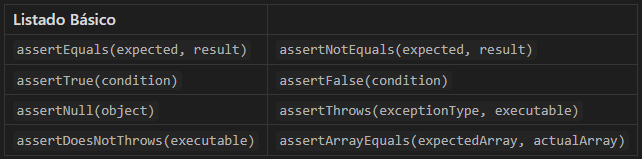
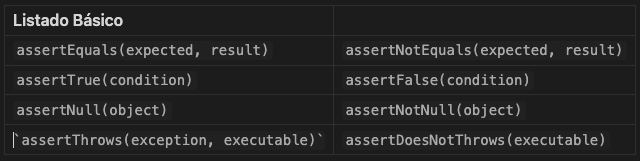
S03E02 - Revision

diff --git a/slides/slides-s03e02-junit-hamcrest.html b/slides/slides-s03e02-junit-hamcrest.html
@@ -178,7 +178,11 @@
 
 # Organización
 
+
+
 ## Anotaciones
+
+<!-- .slide: data-background-image="Adjuntos/slides.eap.png" -->
 </div></script></section><section  data-markdown><script type="text/template"><!-- .slide: class="drop" data-background-image="Adjuntos/slides.eap.png" -->
 <div class="" style="position: absolute; left: 0px; top: 0px; height: 700px; width: 960px; min-height: 700px; display: flex; flex-direction: column; align-items: center; justify-content: center" absolute="true">
 
@@ -192,10 +196,10 @@ public class MiClaseTest {
     @Test
     public void testSuma() {
         // Arrange
-        MiClase miClase = new MiClase();
+        MathUtils mathUtils = new MathUtils();
 
         // Act
-        int resultado = miClase.suma(2, 3);
+        int resultado = mathUtils.suma(2, 3);
 
         // Assert
         assertEquals(5, resultado);
@@ -212,20 +216,20 @@ public class MiClaseTest {
 <!-- .slide: data-background-image="Adjuntos/slides.eap.png" --></aside></script></section><section  data-markdown><script type="text/template"><!-- .slide: class="drop" data-background-image="Adjuntos/slides.eap.png" -->
 <div class="" style="position: absolute; left: 0px; top: 0px; height: 700px; width: 960px; min-height: 700px; display: flex; flex-direction: column; align-items: center; justify-content: center" absolute="true">
 
-```java [5-9]
+```java [3|5-9|11-15]
 public class MiClaseTest {
 
-	MiClase miClase;
+	MathUtils mathUtils;
 
 	@BeforeEach
     public void setUp() {
-        miClase = new MiClase();
-        System.out.println("Configuración inicial antes de cada prueba");
+        // Configuración inicial antes de cada prueba
+        mathUtils = new MathUtils();
     }
 
     @Test
     public void testSuma() {
-        int resultado = miClase.suma(2, 3);
+        int resultado = mathUtils.suma(2, 3);
 		assertEquals(5, resultado);
     }
 }
@@ -243,18 +247,18 @@ public class MiClaseTest {
 ```java [11-15]
 public class MiClaseTest {
 
-	MiClase miClase;
+	MathUtils mathUtils;
 
 	@BeforeEach
     public void setUp() {
-        miClase = new MiClase();
-        System.out.println("Configuración inicial antes de cada prueba");
+	    // Configuración inicial antes de cada prueba
+        mathUtils = new MathUtils();
     }
 
 	@AfterEach
     public void tearDown() {
-        miClase = new MiClase();
-        System.out.println("Limpieza después de cada prueba");
+        // Limpieza después de cada prueba
+        mathUtils = null;
     }
 
     @Test
@@ -277,31 +281,29 @@ public class MiClaseTest {
 ```java [5-8]
 public class MiClaseTest {
 
-	MiClase miClase;
+	MathUtils mathUtils;
 
 	@BeforeAll
 	public static void setUpAll(){
-		System.out.println("Configuración inicial de la clase");
+		// Configuración inicial de la clase
 	}
 
 	@BeforeEach
     public void setUp() {
-        miClase = new MiClase();
-        System.out.println("Configuración inicial antes de cada prueba");
+	    // Configuración inicial antes de cada prueba
+        mathUtils = new MathUtils();
+    }
+
+	@AfterEach
+    public void tearDown() {
+        // Limpieza después de cada prueba
+        mathUtils = null;
     }
 
 	@Test
     public void testSuma() {
         int resultado = miClase.suma(2, 3);
 		assertEquals(5, resultado);
-    }
-
-	// Aquí irían mas tests
-
-	@AfterEach
-    public void tearDown() {
-        miClase = new MiClase();
-        System.out.println("Limpieza después de cada prueba");
     }
 
 }
@@ -313,41 +315,38 @@ public class MiClaseTest {
 </div></script></section><section  data-markdown><script type="text/template"><!-- .slide: class="drop" data-background-image="Adjuntos/slides.eap.png" -->
 <div class="" style="position: absolute; left: 0px; top: 0px; height: 700px; width: 960px; min-height: 700px; display: flex; flex-direction: column; align-items: center; justify-content: center" absolute="true">
 
-```java [30-33]
+```java [10-13]
 public class MiClaseTest {
 
-	MiClase miClase;
+	MathUtils mathUtils;
 
 	@BeforeAll
 	public static void setUpAll(){
-		System.out.println("Configuración inicial de la clase");
+		// Configuración inicial de la clase
+	}
+
+	@AfterAll
+	public static void tearDownAll(){
+		// Limpieza después de todas las pruebas
 	}
 
 	@BeforeEach
     public void setUp() {
-        miClase = new MiClase();
-        System.out.println("Configuración inicial antes de cada prueba");
+	    // Configuración inicial antes de cada prueba
+        mathUtils = new MathUtils();
+    }
+
+	@AfterEach
+    public void tearDown() {
+        // Limpieza después de cada prueba
+        mathUtils = null;
     }
 
 	@Test
     public void testSuma() {
-        int resultado = miClase.suma(2, 3);
+        int resultado = mathUtils.suma(2, 3);
 		assertEquals(5, resultado);
     }
-
-	// Aquí irían mas tests
-
-	@AfterEach
-    public void tearDown() {
-        miClase = new MiClase();
-        System.out.println("Limpieza después de cada prueba");
-    }
-
-	@AfterAll
-	public static void tearDownAll(){
-		System.out.println("Limpieza después de todas las pruebas");
-	}
-
 }
 ```
 </div></script></section><section  data-markdown><script type="text/template"><!-- .slide: class="drop" data-background-image="Adjuntos/slides.eap.png" -->
@@ -424,28 +423,6 @@ public class MiClaseTest {
 # assertArrayEquals
 
 ### `assertArrayEquals(expectedArray, actualArray)`
-</div></script></section><section  data-markdown><script type="text/template"><!-- .slide: class="drop" data-background-image="Adjuntos/slides.eap.png" -->
-<div class="" style="position: absolute; left: 0px; top: 0px; height: 700px; width: 960px; min-height: 700px; display: flex; flex-direction: column; align-items: center; justify-content: center" absolute="true">
-
-```java
-public class CalculadoraTest {
-
-    @Test
-    public void testSuma() {
-        Calculadora calc = new Calculadora();
-        int resultado = calc.suma(2, 3);
-        assertEquals(5, resultado, "La suma de 2 y 3 debe ser 5");
-    }
-
-    @Test
-    public void testDivision() {
-        Calculadora calc = new Calculadora();
-        assertThrows(ArithmeticException.class, () -> {
-            calc.division(5, 0);
-        });
-    }
-}
-```
 </div></script></section><section  data-markdown><script type="text/template"><!-- .slide: class="drop" -->
 <div class="" style="position: absolute; left: 0px; top: 0px; height: 700px; width: 960px; min-height: 700px; display: flex; flex-direction: column; align-items: center; justify-content: center" absolute="true">
 
@@ -469,11 +446,15 @@ public class CalculadoraTest {
 </tr>
 <tr>
 <td><code>assertNull(object)</code></td>
-<td><code>assertThrows(exceptionType, executable)</code></td>
+<td><code>assertNotNull(object)</code></td>
 </tr>
 <tr>
+<td><code>assertThrows(exception, executable)</code></td>
 <td><code>assertDoesNotThrows(executable)</code></td>
-<td><code>assertArrayEquals(expectedArray, actualArray)</code></td>
+</tr>
+<tr>
+<td><a href="https://junit.org/junit5/docs/5.0.1/api/org/junit/jupiter/api/Assertions.html">https://junit.org/junit5/docs/5.0.1/api/org/junit/jupiter/api/Assertions.html</a></td>
+<td></td>
 </tr>
 </tbody></table>
 <p>es posible que veais listados infinitos de assert, pero en muchos casos vais a usar menos del 10%. Es importante saber que existen muchos porque ante un test que parece complicarse quizás haya un assert que está pensado para ese caso</p>
@@ -481,51 +462,37 @@ public class CalculadoraTest {
 <div class="" style="position: absolute; left: 0px; top: 0px; height: 700px; width: 960px; min-height: 700px; display: flex; flex-direction: column; align-items: center; justify-content: center" absolute="true">
 
 # Organización
+</div></script></section><section  data-markdown><script type="text/template"><!-- .slide: class="drop" data-background-image="Adjuntos/slides.eap.png" -->
+<div class="" style="position: absolute; left: 0px; top: 0px; height: 700px; width: 960px; min-height: 700px; display: flex; flex-direction: column; align-items: center; justify-content: center" absolute="true">
 
 ## Suites
 </div></script></section><section  data-markdown><script type="text/template"><!-- .slide: class="drop" data-background-image="Adjuntos/slides.eap.png" -->
 <div class="" style="position: absolute; left: 0px; top: 0px; height: 700px; width: 960px; min-height: 700px; display: flex; flex-direction: column; align-items: center; justify-content: center" absolute="true">
 
-# @Tag
-</div></script></section><section  data-markdown><script type="text/template"><!-- .slide: class="drop" data-background-image="Adjuntos/slides.eap.png" -->
-<div class="" style="position: absolute; left: 0px; top: 0px; height: 700px; width: 960px; min-height: 700px; display: flex; flex-direction: column; align-items: center; justify-content: center" absolute="true">
+`pom.xml`
 
-```java
-@DisplayName("Suite de Pruebas de Integración")
-@Tag("integracion")
-public class SuitePruebasIntegracion {
-
-    @Test
-    @DisplayName("Prueba de Integración 1")
-    void pruebaIntegracion1() {
-        // Implementación de la prueba de integración 1
-    }
-
-    @Test
-    @DisplayName("Prueba de Integración 2")
-    void pruebaIntegracion2() {
-        // Implementación de la prueba de integración 2
-    }
-}
-```
-</div></script></section><section  data-markdown><script type="text/template"><!-- .slide: class="drop" data-background-image="Adjuntos/slides.eap.png" -->
-<div class="" style="position: absolute; left: 0px; top: 0px; height: 700px; width: 960px; min-height: 700px; display: flex; flex-direction: column; align-items: center; justify-content: center" absolute="true">
-
-```bash
-mvn test -Dgroups=integracion
+```xml
+	<dependency>
+	    <groupId>org.junit.platform</groupId>
+	    <artifactId>junit-platform-suite-engine</artifactId>
+	    <version>1.8.1</version>
+	</dependency>
 ```
 </div></script></section><section  data-markdown><script type="text/template"><!-- .slide: class="drop" data-background-image="Adjuntos/slides.eap.png" -->
 <div class="" style="position: absolute; left: 0px; top: 0px; height: 700px; width: 960px; min-height: 700px; display: flex; flex-direction: column; align-items: center; justify-content: center" absolute="true">
 
 # @SelectClasses
+
+
+
+<!-- .slide: data-background-image="Adjuntos/slides.eap.png" -->
 </div></script></section><section  data-markdown><script type="text/template"><!-- .slide: class="drop" data-background-image="Adjuntos/slides.eap.png" -->
 <div class="" style="position: absolute; left: 0px; top: 0px; height: 700px; width: 960px; min-height: 700px; display: flex; flex-direction: column; align-items: center; justify-content: center" absolute="true">
 
 ```java
-@DisplayName("Suite de Pruebas")
-@SelectClasses({Prueba1Test.class, Prueba2Test.class}) // Selecciona clases específicas
-//@SelectPackages("com.ejemplo.pruebas") // Opcional: selecciona todas las clases en un paquete
-public class SuitePruebas {
+@DisplayName("Suite de Pruebas usando Clases")
+@SelectClasses({Prueba1Test.class, Prueba2Test.class})
+public class SuiteClases {
     // No es necesario definir métodos de prueba aquí
 }
 ```
@@ -533,7 +500,31 @@ public class SuitePruebas {
 <div class="" style="position: absolute; left: 0px; top: 0px; height: 700px; width: 960px; min-height: 700px; display: flex; flex-direction: column; align-items: center; justify-content: center" absolute="true">
 
 ```bash
-mvn test -Dtest=SuitePruebas
+mvn test -Dtest=SuiteClases
+```
+</div></script></section><section  data-markdown><script type="text/template"><!-- .slide: class="drop" data-background-image="Adjuntos/slides.eap.png" -->
+<div class="" style="position: absolute; left: 0px; top: 0px; height: 700px; width: 960px; min-height: 700px; display: flex; flex-direction: column; align-items: center; justify-content: center" absolute="true">
+
+# @SelectClasses
+
+
+
+<!-- .slide: data-background-image="Adjuntos/slides.eap.png" -->
+</div></script></section><section  data-markdown><script type="text/template"><!-- .slide: class="drop" data-background-image="Adjuntos/slides.eap.png" -->
+<div class="" style="position: absolute; left: 0px; top: 0px; height: 700px; width: 960px; min-height: 700px; display: flex; flex-direction: column; align-items: center; justify-content: center" absolute="true">
+
+```java
+@DisplayName("Suite de Pruebas usando Paquetes")
+@SelectPackages("com.ejemplo.pruebas") 
+public class SuitePaquetes {
+    // No es necesario definir métodos de prueba aquí
+}
+```
+</div></script></section><section  data-markdown><script type="text/template"><!-- .slide: class="drop" data-background-image="Adjuntos/slides.eap.png" -->
+<div class="" style="position: absolute; left: 0px; top: 0px; height: 700px; width: 960px; min-height: 700px; display: flex; flex-direction: column; align-items: center; justify-content: center" absolute="true">
+
+```bash
+mvn test -Dtest=SuitePaquetes
 ```
 </div></script></section><section  data-markdown><script type="text/template"><!-- .slide: class="drop" data-background-image="Adjuntos/slides.eap.png" -->
 <div class="" style="position: absolute; left: 0px; top: 0px; height: 700px; width: 960px; min-height: 700px; display: flex; flex-direction: column; align-items: center; justify-content: center" absolute="true">
@@ -595,7 +586,7 @@ public class CalculadoraTest {
 </div></script></section><section  data-markdown><script type="text/template"><!-- .slide: class="drop" data-background-image="Adjuntos/slides.eap.png" -->
 <div class="" style="position: absolute; left: 0px; top: 0px; height: 700px; width: 960px; min-height: 700px; display: flex; flex-direction: column; align-items: center; justify-content: center" absolute="true">
 
-Si imaginamos un archivo `datos-descuento.csv` con el siguiente contenido
+Si imaginamos un archivo `datos-descuento.csv` con el siguiente contenido (Debe estar en la carpeta `resources`)
 
 ```txt
 PrecioOriginal,PorcentajeDescuento,PrecioEsperado
@@ -783,6 +774,18 @@ public class CalculadoraImpuestosTest {
 # Lenguajes
 
 Java, Python, Ruby, Objective-C, PHP, Common Lisp, Erlang, Swift, Rust, JavaScript, GO, C#
+</div></script></section><section  data-markdown><script type="text/template"><!-- .slide: class="drop" data-background-image="Adjuntos/slides.eap.png" -->
+<div class="" style="position: absolute; left: 0px; top: 0px; height: 700px; width: 960px; min-height: 700px; display: flex; flex-direction: column; align-items: center; justify-content: center" absolute="true">
+
+`pom.xml`
+```xml
+	<dependency>
+	    <groupId>org.hamcrest</groupId>
+	    <artifactId>hamcrest</artifactId>
+	    <version>2.2</version> <!-- O la versión más reciente disponible -->
+	    <scope>test</scope>
+	</dependency>
+```
 </div></script></section><section  data-markdown><script type="text/template"><!-- .slide: class="drop" -->
 <div class="" style="position: absolute; left: 0px; top: 0px; height: 700px; width: 960px; min-height: 700px; display: flex; flex-direction: column; align-items: center; justify-content: center" absolute="true">
 
@@ -791,6 +794,13 @@ Java, Python, Ruby, Objective-C, PHP, Common Lisp, Erlang, Swift, Rust, JavaScri
 
 <aside class="notes"><p>filtros para comprobar las aserciones</p>
 <!-- .slide: data-background-image="Adjuntos/slides.eap.png" --></aside></script></section><section  data-markdown><script type="text/template"><!-- .slide: class="drop" data-background-image="Adjuntos/slides.eap.png" -->
+<div class="" style="position: absolute; left: 0px; top: 0px; height: 700px; width: 960px; min-height: 700px; display: flex; flex-direction: column; align-items: center; justify-content: center" absolute="true">
+
+```java
+import static org.hamcrest.MatcherAssert.assertThat;
+import static org.hamcrest.Matchers.*;
+```
+</div></script></section><section  data-markdown><script type="text/template"><!-- .slide: class="drop" data-background-image="Adjuntos/slides.eap.png" -->
 <div class="" style="position: absolute; left: 0px; top: 0px; height: 700px; width: 960px; min-height: 700px; display: flex; flex-direction: column; align-items: center; justify-content: center" absolute="true">
 
 # `equalTo`
@@ -853,12 +863,15 @@ Java, Python, Ruby, Objective-C, PHP, Common Lisp, Erlang, Swift, Rust, JavaScri
 # `notNullValue`
 
 ### `assertThat(valor, notNullValue())`
-</div></script></section><section  data-markdown><script type="text/template"><!-- .slide: class="drop" data-background-image="Adjuntos/slides.eap.png" -->
+</div></script></section><section  data-markdown><script type="text/template"><!-- .slide: class="drop" -->
 <div class="" style="position: absolute; left: 0px; top: 0px; height: 700px; width: 960px; min-height: 700px; display: flex; flex-direction: column; align-items: center; justify-content: center" absolute="true">
 
 # `hasProperty`
-### `assertThat(objeto, hasProperty("nombrePropiedad", valorEsperado))`
-</div></script></section></div>
+### `assertThat(objeto, hasProperty("propiedad", valor))`
+</div>
+
+<aside class="notes"><p>el objeto tiene que tener un metodo getXXX donde XXX es la propiedad</p>
+<!-- .slide: data-background-image="Adjuntos/slides.eap.png" --></aside></script></section></div>
     </div>
 
     <script src="dist/reveal.js"></script>
